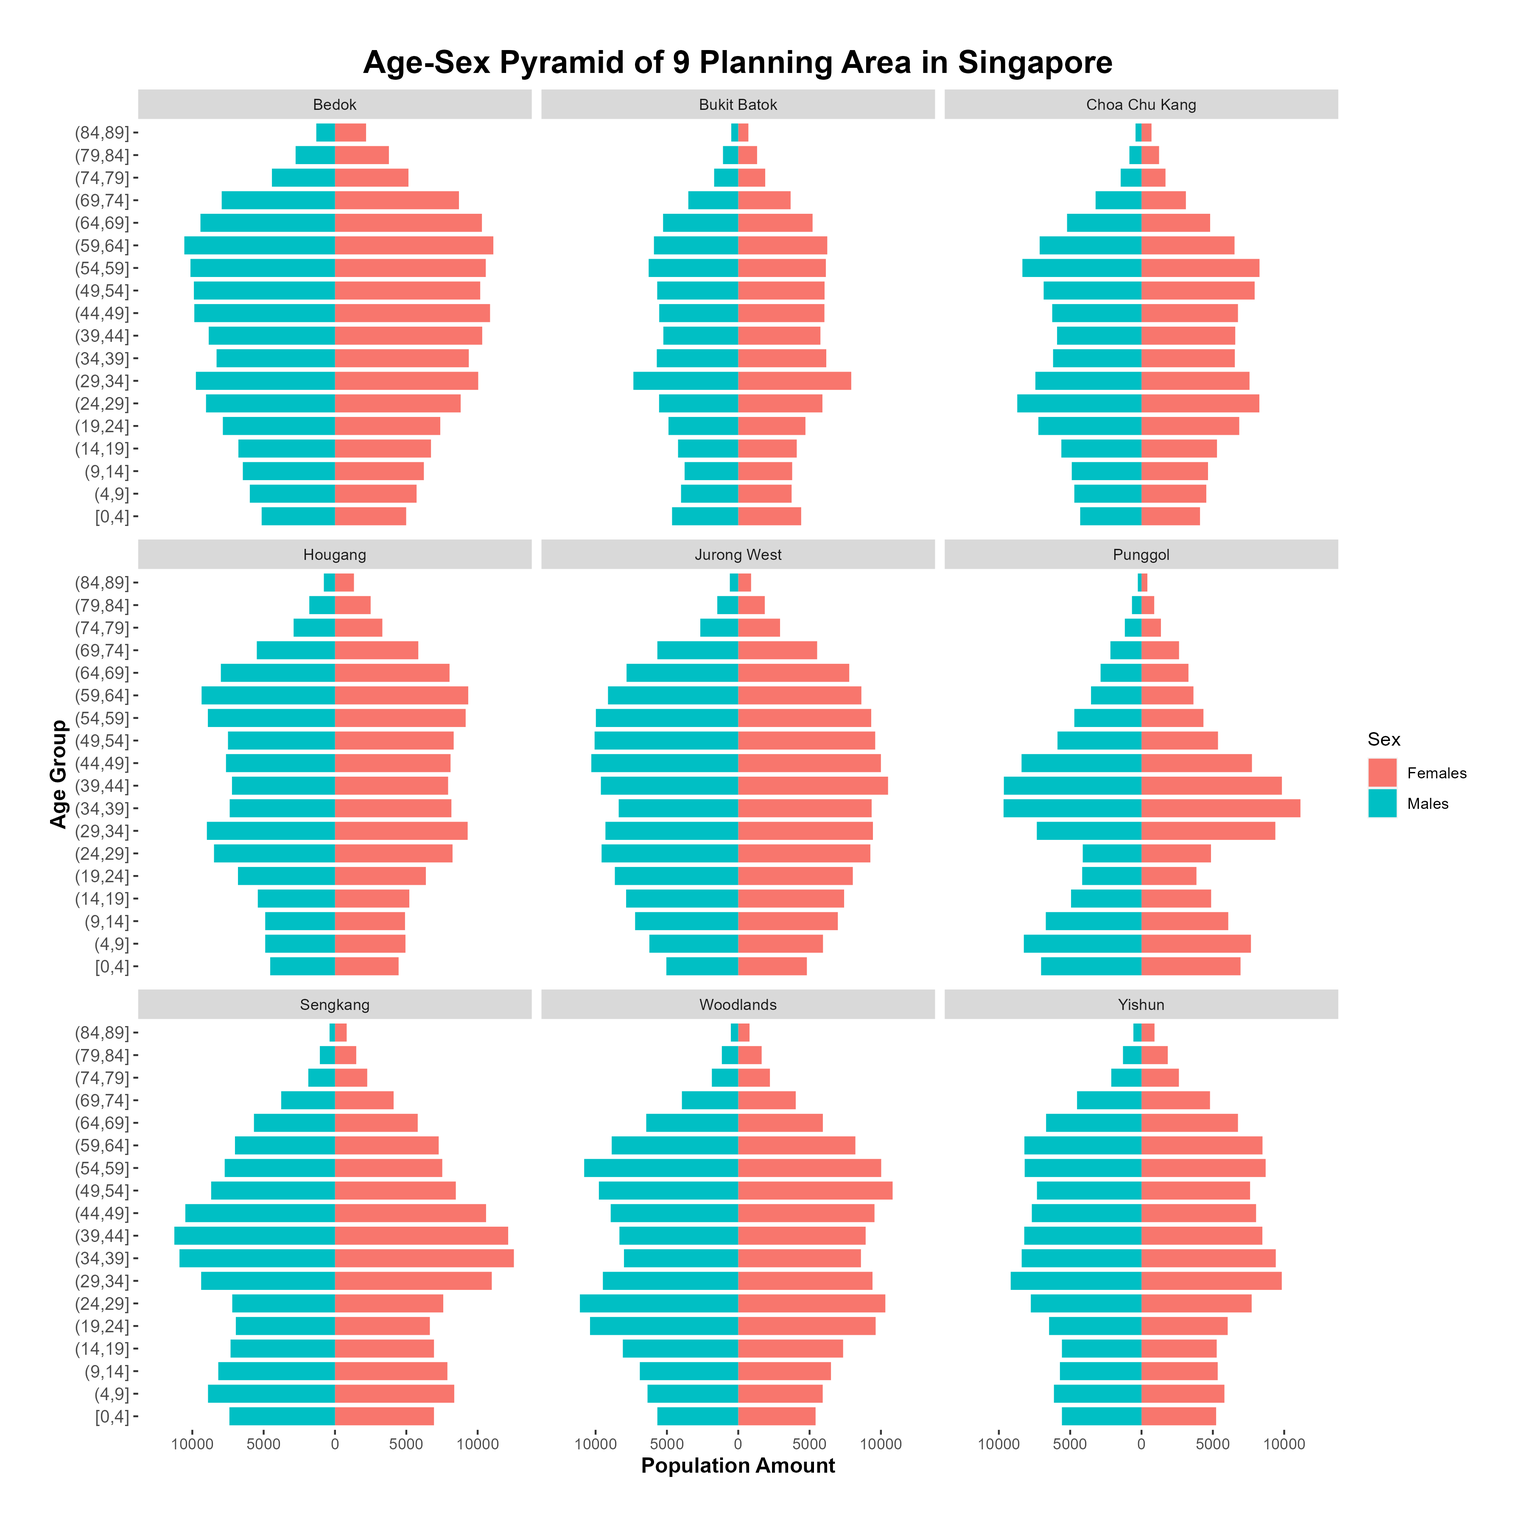
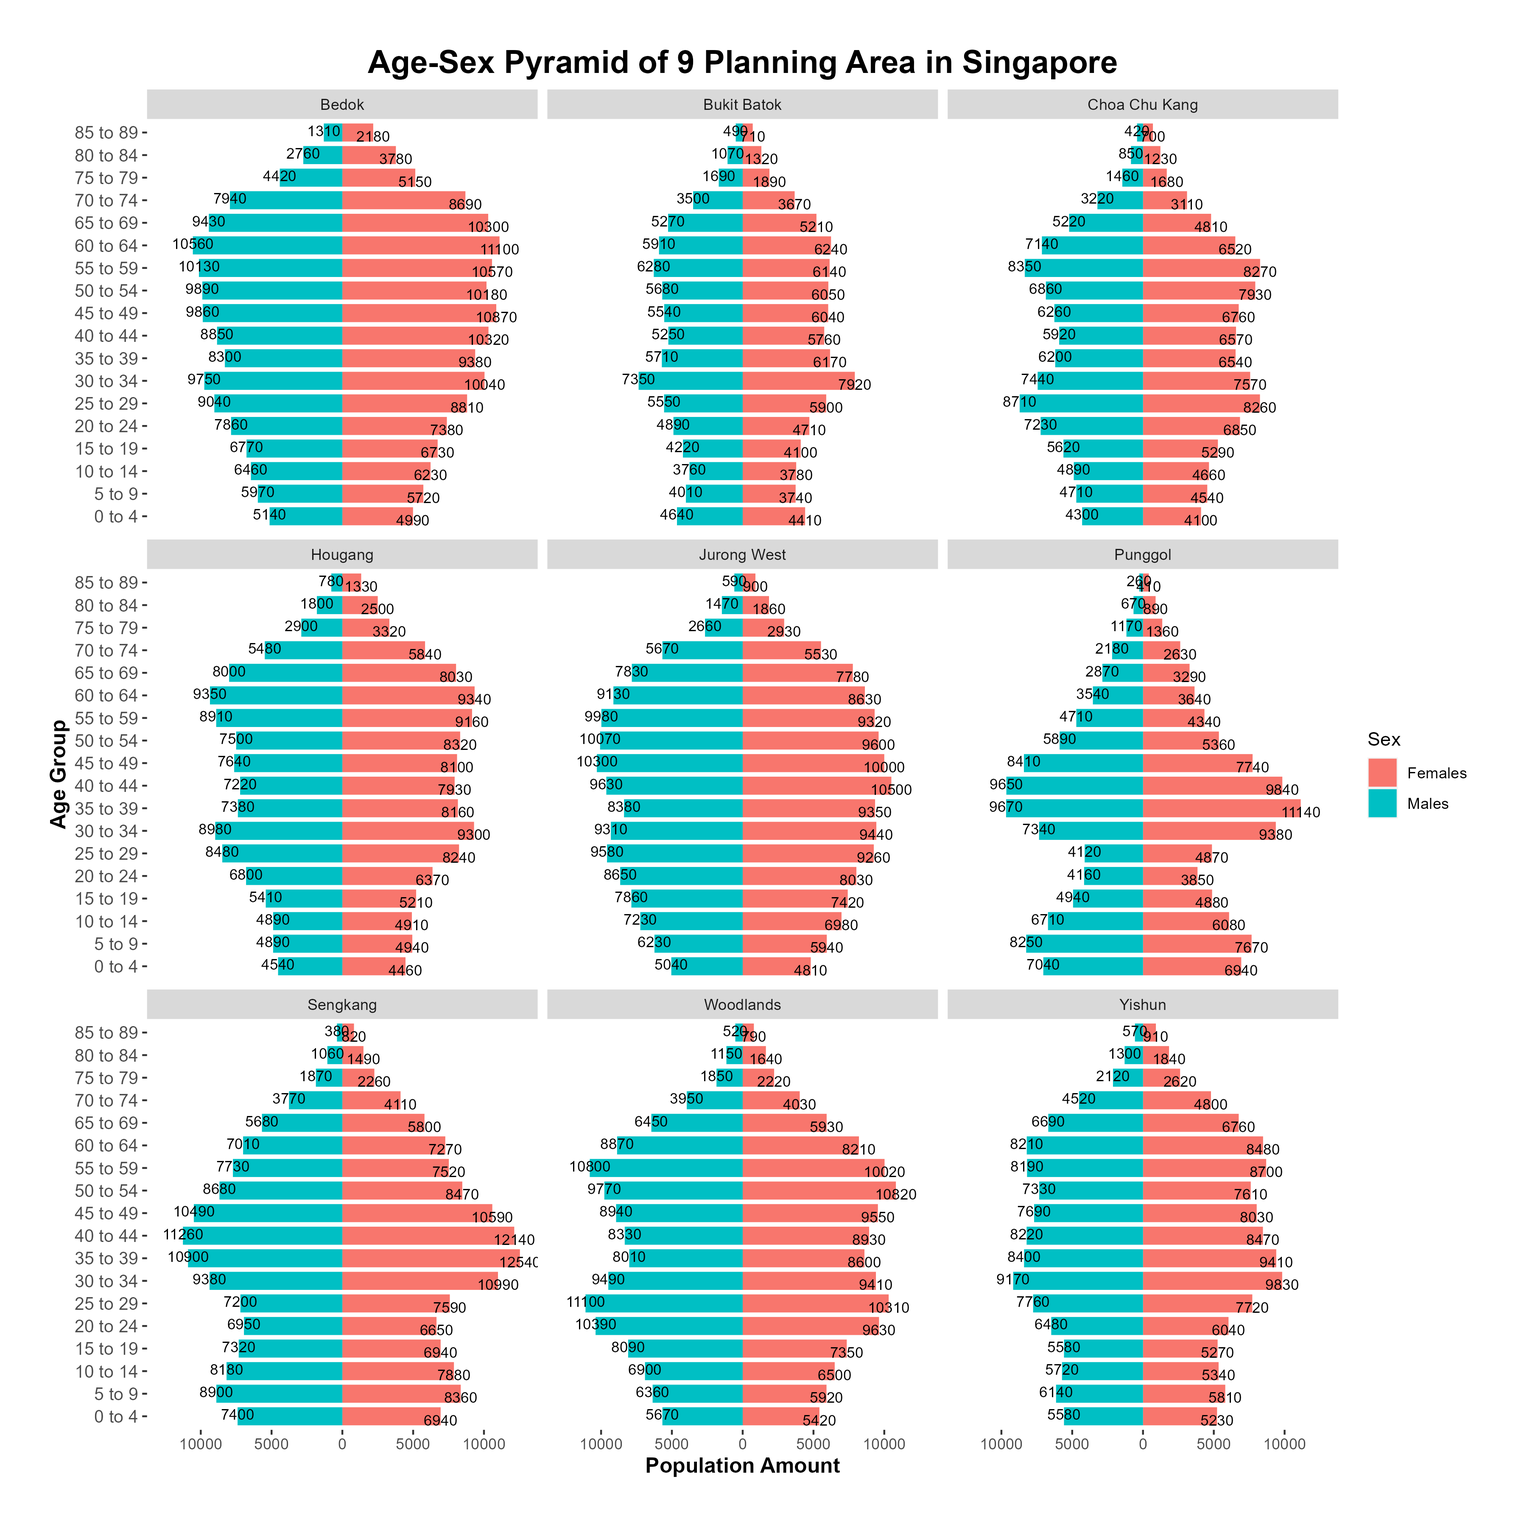
1.26.16.52

diff --git a/_site/take-home-ex/take-home-2/take-home-2.html b/_site/take-home-ex/take-home-2/take-home-2.html
@@ -285,6 +285,7 @@ dbl (2): Pop, Time
 10 Ang Mo Kio Ang Mo Kio Town Centre 4     Females    30  2022</code></pre>
 </div>
 </div>
+<p>Change the data type of ‘Age’ from strings to numeric:</p>
 <div class="cell">
 <div class="sourceCode cell-code" id="cb7"><pre class="sourceCode r code-with-copy"><code class="sourceCode r"><span id="cb7-1"><a href="#cb7-1" aria-hidden="true" tabindex="-1"></a>popdata <span class="ot">&lt;-</span> <span class="fu">transform</span>(popdata,<span class="at">Age=</span><span class="fu">as.numeric</span>(Age))</span></code><button title="Copy to Clipboard" class="code-copy-button"><i class="bi"></i></button></pre></div>
 <div class="cell-output cell-output-stderr">
@@ -292,119 +293,31 @@ dbl (2): Pop, Time
 by coercion</code></pre>
 </div>
 </div>
+<p>Group ‘Age’ in to ‘Age_group’:</p>
 <div class="cell">
 <div class="sourceCode cell-code" id="cb9"><pre class="sourceCode r code-with-copy"><code class="sourceCode r"><span id="cb9-1"><a href="#cb9-1" aria-hidden="true" tabindex="-1"></a>popdata<span class="ot">&lt;-</span>popdata<span class="sc">%&gt;%</span></span>
 <span id="cb9-2"><a href="#cb9-2" aria-hidden="true" tabindex="-1"></a>  <span class="fu">mutate</span>(<span class="at">Age_group =</span> <span class="fu">cut</span>(Age, <span class="at">breaks =</span> <span class="fu">c</span>(<span class="dv">0</span>,<span class="dv">4</span>,<span class="dv">9</span>,<span class="dv">14</span>,<span class="dv">19</span>,<span class="dv">24</span>,<span class="dv">29</span>,<span class="dv">34</span>,<span class="dv">39</span>,<span class="dv">44</span>,<span class="dv">49</span>,<span class="dv">54</span>,<span class="dv">59</span>,<span class="dv">64</span>,<span class="dv">69</span>,<span class="dv">74</span>,<span class="dv">79</span>,<span class="dv">84</span>,<span class="dv">89</span>),</span>
 <span id="cb9-3"><a href="#cb9-3" aria-hidden="true" tabindex="-1"></a>  <span class="at">include.lowest =</span> <span class="cn">TRUE</span>,</span>
 <span id="cb9-4"><a href="#cb9-4" aria-hidden="true" tabindex="-1"></a>  <span class="at">include.highest=</span><span class="cn">TRUE</span>,</span>
-<span id="cb9-5"><a href="#cb9-5" aria-hidden="true" tabindex="-1"></a>  <span class="co">#labels = c("0 to 4", "5 to 9", "10 to 14", "15 to 19","20 to 24",,,,,,,),</span></span>
+<span id="cb9-5"><a href="#cb9-5" aria-hidden="true" tabindex="-1"></a>  <span class="at">labels =</span> <span class="fu">c</span>(<span class="st">"0 to 4"</span>, <span class="st">"5 to 9"</span>, <span class="st">"10 to 14"</span>, <span class="st">"15 to 19"</span>,<span class="st">"20 to 24"</span>,<span class="st">"25 to 29"</span>,<span class="st">"30 to 34"</span>,<span class="st">"35 to 39"</span>,<span class="st">"40 to 44"</span>,<span class="st">"45 to 49"</span>,<span class="st">"50 to 54"</span>,<span class="st">"55 to 59"</span>,<span class="st">"60 to 64"</span>,<span class="st">"65 to 69"</span>,<span class="st">"70 to 74"</span>,<span class="st">"75 to 79"</span>,<span class="st">"80 to 84"</span>,<span class="st">"85 to 89"</span>)</span>
 <span id="cb9-6"><a href="#cb9-6" aria-hidden="true" tabindex="-1"></a>                         </span>
 <span id="cb9-7"><a href="#cb9-7" aria-hidden="true" tabindex="-1"></a>                         ))</span>
-<span id="cb9-8"><a href="#cb9-8" aria-hidden="true" tabindex="-1"></a><span class="fu">head</span>(popdata,<span class="dv">100</span>)</span></code><button title="Copy to Clipboard" class="code-copy-button"><i class="bi"></i></button></pre></div>
+<span id="cb9-8"><a href="#cb9-8" aria-hidden="true" tabindex="-1"></a><span class="fu">head</span>(popdata,<span class="dv">10</span>)</span></code><button title="Copy to Clipboard" class="code-copy-button"><i class="bi"></i></button></pre></div>
 <div class="cell-output cell-output-stdout">
-<pre><code>            PA                     SZ Age     Sex Pop Time Age_group
-1   Ang Mo Kio Ang Mo Kio Town Centre   0   Males  10 2022     [0,4]
-2   Ang Mo Kio Ang Mo Kio Town Centre   0 Females  10 2022     [0,4]
-3   Ang Mo Kio Ang Mo Kio Town Centre   1   Males  20 2022     [0,4]
-4   Ang Mo Kio Ang Mo Kio Town Centre   1 Females  10 2022     [0,4]
-5   Ang Mo Kio Ang Mo Kio Town Centre   2   Males  20 2022     [0,4]
-6   Ang Mo Kio Ang Mo Kio Town Centre   2 Females  10 2022     [0,4]
-7   Ang Mo Kio Ang Mo Kio Town Centre   3   Males  20 2022     [0,4]
-8   Ang Mo Kio Ang Mo Kio Town Centre   3 Females  10 2022     [0,4]
-9   Ang Mo Kio Ang Mo Kio Town Centre   4   Males  30 2022     [0,4]
-10  Ang Mo Kio Ang Mo Kio Town Centre   4 Females  30 2022     [0,4]
-11  Ang Mo Kio Ang Mo Kio Town Centre   5   Males  20 2022     (4,9]
-12  Ang Mo Kio Ang Mo Kio Town Centre   5 Females  20 2022     (4,9]
-13  Ang Mo Kio Ang Mo Kio Town Centre   6   Males  30 2022     (4,9]
-14  Ang Mo Kio Ang Mo Kio Town Centre   6 Females  30 2022     (4,9]
-15  Ang Mo Kio Ang Mo Kio Town Centre   7   Males  20 2022     (4,9]
-16  Ang Mo Kio Ang Mo Kio Town Centre   7 Females  20 2022     (4,9]
-17  Ang Mo Kio Ang Mo Kio Town Centre   8   Males  20 2022     (4,9]
-18  Ang Mo Kio Ang Mo Kio Town Centre   8 Females  20 2022     (4,9]
-19  Ang Mo Kio Ang Mo Kio Town Centre   9   Males  30 2022     (4,9]
-20  Ang Mo Kio Ang Mo Kio Town Centre   9 Females  30 2022     (4,9]
-21  Ang Mo Kio Ang Mo Kio Town Centre  10   Males  40 2022    (9,14]
-22  Ang Mo Kio Ang Mo Kio Town Centre  10 Females  30 2022    (9,14]
-23  Ang Mo Kio Ang Mo Kio Town Centre  11   Males  30 2022    (9,14]
-24  Ang Mo Kio Ang Mo Kio Town Centre  11 Females  20 2022    (9,14]
-25  Ang Mo Kio Ang Mo Kio Town Centre  12   Males  20 2022    (9,14]
-26  Ang Mo Kio Ang Mo Kio Town Centre  12 Females  30 2022    (9,14]
-27  Ang Mo Kio Ang Mo Kio Town Centre  13   Males  30 2022    (9,14]
-28  Ang Mo Kio Ang Mo Kio Town Centre  13 Females  40 2022    (9,14]
-29  Ang Mo Kio Ang Mo Kio Town Centre  14   Males  20 2022    (9,14]
-30  Ang Mo Kio Ang Mo Kio Town Centre  14 Females  40 2022    (9,14]
-31  Ang Mo Kio Ang Mo Kio Town Centre  15   Males  30 2022   (14,19]
-32  Ang Mo Kio Ang Mo Kio Town Centre  15 Females  30 2022   (14,19]
-33  Ang Mo Kio Ang Mo Kio Town Centre  16   Males  20 2022   (14,19]
-34  Ang Mo Kio Ang Mo Kio Town Centre  16 Females  30 2022   (14,19]
-35  Ang Mo Kio Ang Mo Kio Town Centre  17   Males  40 2022   (14,19]
-36  Ang Mo Kio Ang Mo Kio Town Centre  17 Females  30 2022   (14,19]
-37  Ang Mo Kio Ang Mo Kio Town Centre  18   Males  30 2022   (14,19]
-38  Ang Mo Kio Ang Mo Kio Town Centre  18 Females  30 2022   (14,19]
-39  Ang Mo Kio Ang Mo Kio Town Centre  19   Males  30 2022   (14,19]
-40  Ang Mo Kio Ang Mo Kio Town Centre  19 Females  30 2022   (14,19]
-41  Ang Mo Kio Ang Mo Kio Town Centre  20   Males  20 2022   (19,24]
-42  Ang Mo Kio Ang Mo Kio Town Centre  20 Females  30 2022   (19,24]
-43  Ang Mo Kio Ang Mo Kio Town Centre  21   Males  40 2022   (19,24]
-44  Ang Mo Kio Ang Mo Kio Town Centre  21 Females  30 2022   (19,24]
-45  Ang Mo Kio Ang Mo Kio Town Centre  22   Males  30 2022   (19,24]
-46  Ang Mo Kio Ang Mo Kio Town Centre  22 Females  20 2022   (19,24]
-47  Ang Mo Kio Ang Mo Kio Town Centre  23   Males  30 2022   (19,24]
-48  Ang Mo Kio Ang Mo Kio Town Centre  23 Females  30 2022   (19,24]
-49  Ang Mo Kio Ang Mo Kio Town Centre  24   Males  20 2022   (19,24]
-50  Ang Mo Kio Ang Mo Kio Town Centre  24 Females  30 2022   (19,24]
-51  Ang Mo Kio Ang Mo Kio Town Centre  25   Males  30 2022   (24,29]
-52  Ang Mo Kio Ang Mo Kio Town Centre  25 Females  30 2022   (24,29]
-53  Ang Mo Kio Ang Mo Kio Town Centre  26   Males  30 2022   (24,29]
-54  Ang Mo Kio Ang Mo Kio Town Centre  26 Females  30 2022   (24,29]
-55  Ang Mo Kio Ang Mo Kio Town Centre  27   Males  30 2022   (24,29]
-56  Ang Mo Kio Ang Mo Kio Town Centre  27 Females  40 2022   (24,29]
-57  Ang Mo Kio Ang Mo Kio Town Centre  28   Males  20 2022   (24,29]
-58  Ang Mo Kio Ang Mo Kio Town Centre  28 Females  20 2022   (24,29]
-59  Ang Mo Kio Ang Mo Kio Town Centre  29   Males  30 2022   (24,29]
-60  Ang Mo Kio Ang Mo Kio Town Centre  29 Females  20 2022   (24,29]
-61  Ang Mo Kio Ang Mo Kio Town Centre  30   Males  30 2022   (29,34]
-62  Ang Mo Kio Ang Mo Kio Town Centre  30 Females  30 2022   (29,34]
-63  Ang Mo Kio Ang Mo Kio Town Centre  31   Males  20 2022   (29,34]
-64  Ang Mo Kio Ang Mo Kio Town Centre  31 Females  40 2022   (29,34]
-65  Ang Mo Kio Ang Mo Kio Town Centre  32   Males  30 2022   (29,34]
-66  Ang Mo Kio Ang Mo Kio Town Centre  32 Females  30 2022   (29,34]
-67  Ang Mo Kio Ang Mo Kio Town Centre  33   Males  40 2022   (29,34]
-68  Ang Mo Kio Ang Mo Kio Town Centre  33 Females  30 2022   (29,34]
-69  Ang Mo Kio Ang Mo Kio Town Centre  34   Males  30 2022   (29,34]
-70  Ang Mo Kio Ang Mo Kio Town Centre  34 Females  30 2022   (29,34]
-71  Ang Mo Kio Ang Mo Kio Town Centre  35   Males  20 2022   (34,39]
-72  Ang Mo Kio Ang Mo Kio Town Centre  35 Females  40 2022   (34,39]
-73  Ang Mo Kio Ang Mo Kio Town Centre  36   Males  30 2022   (34,39]
-74  Ang Mo Kio Ang Mo Kio Town Centre  36 Females  40 2022   (34,39]
-75  Ang Mo Kio Ang Mo Kio Town Centre  37   Males  30 2022   (34,39]
-76  Ang Mo Kio Ang Mo Kio Town Centre  37 Females  30 2022   (34,39]
-77  Ang Mo Kio Ang Mo Kio Town Centre  38   Males  30 2022   (34,39]
-78  Ang Mo Kio Ang Mo Kio Town Centre  38 Females  40 2022   (34,39]
-79  Ang Mo Kio Ang Mo Kio Town Centre  39   Males  50 2022   (34,39]
-80  Ang Mo Kio Ang Mo Kio Town Centre  39 Females  50 2022   (34,39]
-81  Ang Mo Kio Ang Mo Kio Town Centre  40   Males  40 2022   (39,44]
-82  Ang Mo Kio Ang Mo Kio Town Centre  40 Females  50 2022   (39,44]
-83  Ang Mo Kio Ang Mo Kio Town Centre  41   Males  30 2022   (39,44]
-84  Ang Mo Kio Ang Mo Kio Town Centre  41 Females  40 2022   (39,44]
-85  Ang Mo Kio Ang Mo Kio Town Centre  42   Males  40 2022   (39,44]
-86  Ang Mo Kio Ang Mo Kio Town Centre  42 Females  40 2022   (39,44]
-87  Ang Mo Kio Ang Mo Kio Town Centre  43   Males  40 2022   (39,44]
-88  Ang Mo Kio Ang Mo Kio Town Centre  43 Females  40 2022   (39,44]
-89  Ang Mo Kio Ang Mo Kio Town Centre  44   Males  40 2022   (39,44]
-90  Ang Mo Kio Ang Mo Kio Town Centre  44 Females  50 2022   (39,44]
-91  Ang Mo Kio Ang Mo Kio Town Centre  45   Males  40 2022   (44,49]
-92  Ang Mo Kio Ang Mo Kio Town Centre  45 Females  40 2022   (44,49]
-93  Ang Mo Kio Ang Mo Kio Town Centre  46   Males  40 2022   (44,49]
-94  Ang Mo Kio Ang Mo Kio Town Centre  46 Females  50 2022   (44,49]
-95  Ang Mo Kio Ang Mo Kio Town Centre  47   Males  40 2022   (44,49]
-96  Ang Mo Kio Ang Mo Kio Town Centre  47 Females  50 2022   (44,49]
-97  Ang Mo Kio Ang Mo Kio Town Centre  48   Males  50 2022   (44,49]
-98  Ang Mo Kio Ang Mo Kio Town Centre  48 Females  50 2022   (44,49]
-99  Ang Mo Kio Ang Mo Kio Town Centre  49   Males  30 2022   (44,49]
-100 Ang Mo Kio Ang Mo Kio Town Centre  49 Females  60 2022   (44,49]</code></pre>
+<pre><code>           PA                     SZ Age     Sex Pop Time Age_group
+1  Ang Mo Kio Ang Mo Kio Town Centre   0   Males  10 2022    0 to 4
+2  Ang Mo Kio Ang Mo Kio Town Centre   0 Females  10 2022    0 to 4
+3  Ang Mo Kio Ang Mo Kio Town Centre   1   Males  20 2022    0 to 4
+4  Ang Mo Kio Ang Mo Kio Town Centre   1 Females  10 2022    0 to 4
+5  Ang Mo Kio Ang Mo Kio Town Centre   2   Males  20 2022    0 to 4
+6  Ang Mo Kio Ang Mo Kio Town Centre   2 Females  10 2022    0 to 4
+7  Ang Mo Kio Ang Mo Kio Town Centre   3   Males  20 2022    0 to 4
+8  Ang Mo Kio Ang Mo Kio Town Centre   3 Females  10 2022    0 to 4
+9  Ang Mo Kio Ang Mo Kio Town Centre   4   Males  30 2022    0 to 4
+10 Ang Mo Kio Ang Mo Kio Town Centre   4 Females  30 2022    0 to 4</code></pre>
 </div>
 </div>
+<p>Check the top 9 planing area with the most population:</p>
 <div class="cell">
 <div class="sourceCode cell-code" id="cb11"><pre class="sourceCode r code-with-copy"><code class="sourceCode r"><span id="cb11-1"><a href="#cb11-1" aria-hidden="true" tabindex="-1"></a>pop<span class="ot">=</span>popdata <span class="sc">%&gt;%</span> <span class="fu">group_by</span>(PA)  <span class="sc">%&gt;%</span></span>
 <span id="cb11-2"><a href="#cb11-2" aria-hidden="true" tabindex="-1"></a>                    <span class="fu">summarise</span>(<span class="at">Pop =</span> <span class="fu">sum</span>(Pop),</span>
@@ -425,6 +338,7 @@ by coercion</code></pre>
 9 Yishun        223340</code></pre>
 </div>
 </div>
+<p>Filter the planing area:</p>
 <div class="cell">
 <div class="sourceCode cell-code" id="cb13"><pre class="sourceCode r code-with-copy"><code class="sourceCode r"><span id="cb13-1"><a href="#cb13-1" aria-hidden="true" tabindex="-1"></a>popdata <span class="ot">&lt;-</span><span class="fu">filter</span>(popdata,PA <span class="sc">%in%</span> <span class="fu">c</span>(<span class="st">"Bedok"</span>,<span class="st">"Jurong West"</span>,<span class="st">"Yishun"</span>,<span class="st">"Punggol"</span>,<span class="st">'Bukit Batok'</span>,<span class="st">"Woodlands"</span>,<span class="st">"Sengkang"</span>,<span class="st">"Hougang"</span>,<span class="st">"Choa Chu Kang"</span>))</span>
 <span id="cb13-2"><a href="#cb13-2" aria-hidden="true" tabindex="-1"></a>popdata <span class="ot">&lt;-</span> popdata[<span class="sc">!</span><span class="fu">is.na</span>(popdata<span class="sc">$</span>Age_group),]</span></code><button title="Copy to Clipboard" class="code-copy-button"><i class="bi"></i></button></pre></div>
@@ -434,6 +348,21 @@ by coercion</code></pre>
 <h1>3 Age-Sex Pyramid Using Trellis Display Critique and Remake</h1>
 <section id="critique" class="level2">
 <h2 class="anchored" data-anchor-id="critique"><strong>3.1 Critique</strong></h2>
+<p>The graph below is an Age-Sex Pyramid made by a classmate</p>
+<p><img src="2.png" class="img-fluid"></p>
+<p><strong>Clarity</strong></p>
+<ul>
+<li><p>The graph is generally clear in terms of x-axis labels, planning area labels and overall layout. The audience is able to gasp the general trend of population distribution of each planning area.</p></li>
+<li><p>Y-axis label 'AG' is an acronym, which is vague, can be improved by using ‘Age Group’. And the group name was compressed, this will bring problem for the audience.</p></li>
+<li><p>Some value labels are blocked and some groups have labels but others do not.</p></li>
+<li><p>The ‘Column’ and ‘Row’ should be hided.</p></li>
+<li><p>The title of the graph should be bold and bigger</p></li>
+</ul>
+<p><strong>Aesthetics</strong></p>
+<ul>
+<li><p>Colors chosen are clean and easily readable to the audience.</p></li>
+<li><p>The planning area labels could be more clean.</p></li>
+</ul>
 </section>
 <section id="remake" class="level2">
 <h2 class="anchored" data-anchor-id="remake"><strong>3.2 Remake</strong></h2>
@@ -452,15 +381,18 @@ by coercion</code></pre>
 <span id="cb15-8"><a href="#cb15-8" aria-hidden="true" tabindex="-1"></a>  <span class="fu">coord_flip</span>()<span class="sc">+</span></span>
 <span id="cb15-9"><a href="#cb15-9" aria-hidden="true" tabindex="-1"></a>  <span class="fu">facet_wrap</span>(<span class="sc">~</span> PA) <span class="sc">+</span></span>
 <span id="cb15-10"><a href="#cb15-10" aria-hidden="true" tabindex="-1"></a>  <span class="fu">ggtitle</span>(<span class="st">"Age-Sex Pyramid of 9 Planning Area in Singapore"</span>) <span class="sc">+</span></span>
-<span id="cb15-11"><a href="#cb15-11" aria-hidden="true" tabindex="-1"></a>   <span class="fu">theme</span>(<span class="at">plot.title =</span> <span class="fu">element_text</span>(<span class="at">size=</span><span class="dv">18</span>,<span class="at">face=</span><span class="st">'bold'</span>,<span class="at">hjust =</span> <span class="fl">0.5</span>),</span>
+<span id="cb15-11"><a href="#cb15-11" aria-hidden="true" tabindex="-1"></a>  <span class="fu">theme</span>(<span class="at">plot.title =</span> <span class="fu">element_text</span>(<span class="at">size=</span><span class="dv">18</span>,<span class="at">face=</span><span class="st">'bold'</span>,<span class="at">hjust =</span> <span class="fl">0.5</span>),</span>
 <span id="cb15-12"><a href="#cb15-12" aria-hidden="true" tabindex="-1"></a>          <span class="at">panel.grid.major =</span><span class="fu">element_blank</span>(), </span>
 <span id="cb15-13"><a href="#cb15-13" aria-hidden="true" tabindex="-1"></a>          <span class="at">panel.grid.minor =</span> <span class="fu">element_blank</span>(),</span>
 <span id="cb15-14"><a href="#cb15-14" aria-hidden="true" tabindex="-1"></a>          <span class="at">panel.background =</span> <span class="fu">element_blank</span>(),</span>
 <span id="cb15-15"><a href="#cb15-15" aria-hidden="true" tabindex="-1"></a>          <span class="at">axis.title =</span>  <span class="fu">element_text</span>(<span class="at">size=</span><span class="dv">12</span>,<span class="at">face =</span> <span class="st">"bold"</span>),</span>
 <span id="cb15-16"><a href="#cb15-16" aria-hidden="true" tabindex="-1"></a>          <span class="at">axis.text.y =</span>   <span class="fu">element_text</span>(<span class="at">hjust =</span> <span class="dv">1</span>, </span>
 <span id="cb15-17"><a href="#cb15-17" aria-hidden="true" tabindex="-1"></a>                                        <span class="at">size=</span><span class="dv">10</span>),  </span>
-<span id="cb15-18"><a href="#cb15-18" aria-hidden="true" tabindex="-1"></a>                                        <span class="at">plot.margin=</span><span class="fu">unit</span>(<span class="fu">rep</span>(<span class="dv">1</span>,<span class="dv">4</span>),<span class="st">'cm'</span>)) </span>
-<span id="cb15-19"><a href="#cb15-19" aria-hidden="true" tabindex="-1"></a><span class="fu">ggsave</span>(<span class="st">"1.png"</span>, <span class="at">units=</span><span class="st">"in"</span>, <span class="at">dpi=</span><span class="dv">300</span>, <span class="at">width=</span><span class="dv">12</span>, <span class="at">height=</span><span class="dv">12</span>, <span class="at">device=</span><span class="st">"png"</span>)</span></code><button title="Copy to Clipboard" class="code-copy-button"><i class="bi"></i></button></pre></div>
+<span id="cb15-18"><a href="#cb15-18" aria-hidden="true" tabindex="-1"></a>                                        <span class="at">plot.margin=</span><span class="fu">unit</span>(<span class="fu">rep</span>(<span class="dv">1</span>,<span class="dv">4</span>),<span class="st">'cm'</span>))<span class="sc">+</span></span>
+<span id="cb15-19"><a href="#cb15-19" aria-hidden="true" tabindex="-1"></a>  <span class="fu">geom_text</span>(<span class="fu">aes</span>(<span class="at">label=</span>Pop),</span>
+<span id="cb15-20"><a href="#cb15-20" aria-hidden="true" tabindex="-1"></a>            <span class="at">position =</span> <span class="fu">position_dodge2</span>(<span class="at">width =</span> <span class="fl">0.5</span>, <span class="at">padding=</span><span class="fl">0.3</span>,<span class="at">preserve =</span> <span class="st">'single'</span>), </span>
+<span id="cb15-21"><a href="#cb15-21" aria-hidden="true" tabindex="-1"></a>            <span class="at">vjust =</span> <span class="fl">0.6</span>, <span class="at">hjust =</span> <span class="fl">0.5</span>,<span class="at">size=</span><span class="dv">3</span>)</span>
+<span id="cb15-22"><a href="#cb15-22" aria-hidden="true" tabindex="-1"></a><span class="fu">ggsave</span>(<span class="st">"1.png"</span>, <span class="at">units=</span><span class="st">"in"</span>, <span class="at">dpi=</span><span class="dv">300</span>, <span class="at">width=</span><span class="dv">12</span>, <span class="at">height=</span><span class="dv">12</span>, <span class="at">device=</span><span class="st">"png"</span>)</span></code><button title="Copy to Clipboard" class="code-copy-button"><i class="bi"></i></button></pre></div>
 </div>
 <div class="quarto-figure quarto-figure-center">
 <figure class="figure">
